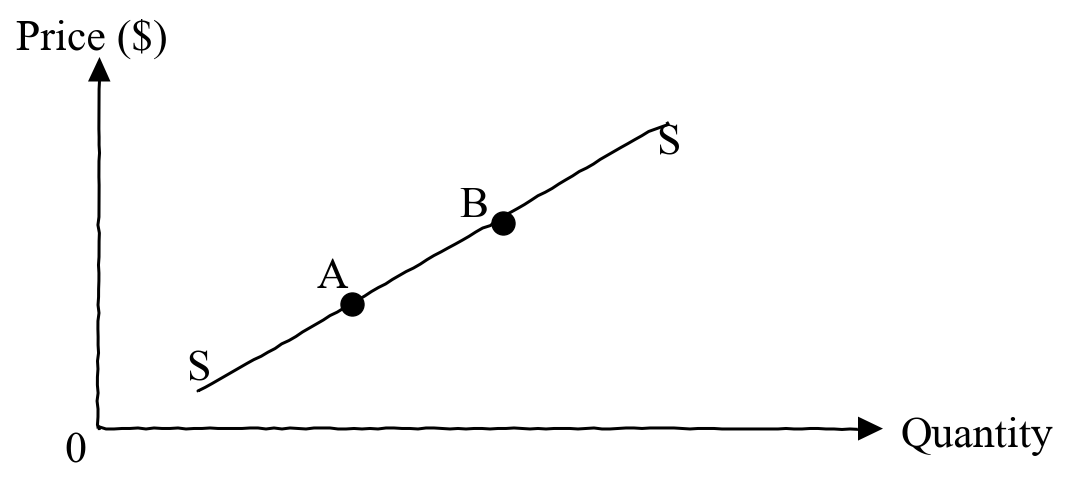
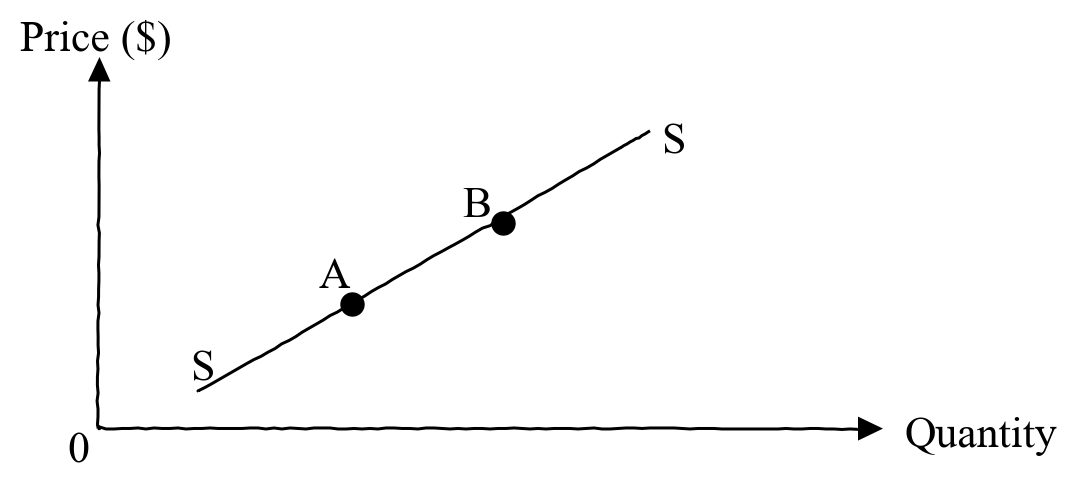
Restore 2015 Econ Q15 figure after §9.4 pass; auto-publish SOP in OCR_WORKFLOW.
Tip ink-snap fixed AA; embed 5/6; delivery edits now auto build_index+push.

diff --git a/docs/data.js b/docs/data.js
@@ -1,5 +1,5 @@
 window.QB = {
- "generated": "2026-11-05 14:47",
+ "generated": "2026-11-05 14:57",
  "count": 327,
  "questions": [
   {
@@ -3312,8 +3312,8 @@ window.QB = {
     "供求均衡",
     "沿曲線移動"
    ],
-   "text": "SS is the supply curve for smartphones. Which of the following reasons can best explain the change of the equilibrium position in the smartphone market from A to B?\n\n\n- A. The retailers offer more free gifts for buying smartphones.\n- B. The size of a tablet computer with a phone function is reduced.\n- C. There are more smartphone producers in the market.\n- D. The major network service providers increase the service charge at the same time.",
-   "html": "<p>SS is the supply curve for smartphones. Which of the following reasons can best explain the change of the equilibrium position in the smartphone market from A to B?</p>\n<ul>\n<li>A. The retailers offer more free gifts for buying smartphones.</li>\n<li>B. The size of a tablet computer with a phone function is reduced.</li>\n<li>C. There are more smartphone producers in the market.</li>\n<li>D. The major network service providers increase the service charge at the same time.</li>\n</ul>",
+   "text": "SS is the supply curve for smartphones. Which of the following reasons can best explain the change of the equilibrium position in the smartphone market from A to B?\n\n![fig_2015P1_q15](2015_P1_images/fig_2015P1_q15.png)\n\n- A. The retailers offer more free gifts for buying smartphones.\n- B. The size of a tablet computer with a phone function is reduced.\n- C. There are more smartphone producers in the market.\n- D. The major network service providers increase the service charge at the same time.",
+   "html": "<p>SS is the supply curve for smartphones. Which of the following reasons can best explain the change of the equilibrium position in the smartphone market from A to B?</p>\n<p><img alt=\"fig_2015P1_q15\" src=\"2015_P1_images/fig_2015P1_q15.png\" /></p>\n<ul>\n<li>A. The retailers offer more free gifts for buying smartphones.</li>\n<li>B. The size of a tablet computer with a phone function is reduced.</li>\n<li>C. There are more smartphone producers in the market.</li>\n<li>D. The major network service providers increase the service charge at the same time.</li>\n</ul>",
    "file": "2015_P1_QU(ENG).md"
   },
   {

diff --git a/OCR_WORKFLOW.md b/OCR_WORKFLOW.md
@@ -132,13 +132,14 @@
 | 圖 | 必須 100% 重繪（2026-11-04 用戶拍板，取代舊「crop 可用」做法）；原卷裁圖只作過程對照 | §4、用戶指示 |
 | 版權 | 只 commit 清洗後 MD（＋SVG）；原卷／掃描頁／裁圖 `.gitignore` | README、git |
 | 上線 | `build_index.py` → `docs/data.js` → commit → push → GitHub Pages | README、git |
+| **自動上線（2026-11-05）** | 凡改動會影響公開題庫嘅交貨（QU MD、嵌圖、`docs/`、`OCR_WORKFLOW.md`、科目 README／audit）→ **同一輪做完就 `build_index.py`＋commit＋push**，唔使等人再講「push」。原卷／`_work_*`／OCR scratch 仍然唔准上 git。 | 用戶指示 |
 | QA | 清走檔尾「制作說明／全卷完」等雜訊；2012–2014 全卷 QA 全綠後固化入 `build_index.py` | commit 2cc2946 |
 
 注意：
 
 - 舊標準**冇**獨立 `SOP.md`；呢份 `OCR_WORKFLOW.md` 係 2026-11-04 整理版，用嚟補 OCR 同多科細節。
 - 兩者衝突（例如圖用 crop 定重繪）時：**已由用戶 2026-11-04 拍板——一律 100% 重繪**，見檔頭「★ 鐵律」。其他未拍板嘅衝突先問用戶。
-- 數學科題庫仍然係「做完自動 `build_index.py`、commit、push」；其他科只做本地交付，唔好推上數學 repo。
+- **自動上線（2026-11-05 用戶拍板）**：數學同已入公開 bank 嘅其他科（而家包括經濟）——交貨改動做完就自動 `build_index.py` → commit → push；唔使再等「push」指令。只 commit 清洗後 MD／重繪圖／`docs/`／SOP；原卷同 `_work_*` 永遠唔上。
 
 ## §9 重繪操作定義（2026-11-04 補，落實鐵律 2）
 
@@ -171,6 +172,7 @@
 | 2026-11-04 21:5x | §9.3 加禁「逐像素 RLE 矩形／自動描邊」冒充重繪；OCR 標籤錯字、漏字、改標點即不合格，禁用 `fix_label()` 擅自改字 |
 | 2026-11-05 | §9.4 加「抗鋸齒容差」：maxdev≤2.9、p99.9≤2.5 且超標為 ≤8px 孤立斑點可記入 audit 後過關；禁用嚟遮漏畫／移位 |
 | 2026-11-05 14:3x | 用戶拍板：所有 OCR 掃描操作一律跟 `2014_P1_QU(CHI).md`（清洗 MD＋1:1 向量重繪）；檔頭寫明操作標準；SOUL 廢除 crop 交貨 |
+| 2026-11-05 14:5x | 交貨改動自動 `build_index`＋commit＋push 寫入 §8；經濟 2015 Q15 修頂端後 §9.4 過關並重嵌 |
 
 ---
 

diff --git a/題庫/經濟/2015_P1_fig_audit.md b/題庫/經濟/2015_P1_fig_audit.md
@@ -1,18 +1,16 @@
 # 2015 經濟 P1 ENG — 圖核對表
 
-**2026-11-05 重洗**：來源改對英文 `Paper 1.pdf`；頁影像 `_work_econ_ocr\2015_P1_ENG_pages_300\`；OCR `2015_P1_ENG_ocr_v2`（easyocr en）。舊 `2015_pages_300`／壞 OCR 係中文卷一，已棄用。
-
-§9.4 含抗鋸齒容差（maxdev≤2.9、p99.9≤2.5；超標只限 ≤8px 孤立斑點）。`check.json` 的 `pass`＝`pass_dir1`∧`pass_dir2`∧`pass_aa`。
+**2026-11-05 重洗／補圖**：來源英文 `Paper 1.pdf`；頁影像 `_work_econ_ocr\2015_P1_ENG_pages_300\`（舊 `2015_pages_300` 係中文卷一，勿用）。§9.4 含抗鋸齒容差（maxdev≤2.9、p99.9≤2.5）。`pass`＝`pass_dir1`∧`pass_dir2`∧`pass_aa`。
 
 | 題號 | 頁 | dir1% | dir2% | maxdev | p99.9 | pass_aa | 狀態 |
 |---|---|---:|---:|---:|---:|---|---|
-| Q15 | p05 | 99.599 | 99.748 | **5.83** | **4.48** | false | **待重繪**（dir1 unmatched area=24 @ 9×5 塊，非孤立 AA）；已撤 embed |
-| Q19 | p07 | 99.746 | 100.000 | **4.12** | **2.86** | false | **待重繪**（p99.9>2.5；標籤／線偏）；已撤 embed |
+| Q15 | p05 | 99.957 | 99.748 | 2.24 | 2.00 | true | **過關**（2026-11-05 修供應線頂端 ink-snap）；MD 有 embed |
+| Q19 | p07 | 99.746 | 100.000 | **4.12** | **2.86** | false | **待重繪**；已撤 embed |
 | Q22 | p08 | 99.872 | 100.000 | 2.24 | 2.24 | true | **過關**；MD 有 embed |
 | Q27 | p10 | 99.888 | 100.000 | 2.83 | 2.24 | true | **過關**；MD 有 embed（A–D 圖選項） |
 | Q28 | p10 | 99.967 | 100.000 | 2.24 | 2.00 | true | **過關**；MD 有 embed |
 | Q37 | p13 | 99.912 | 100.000 | 2.24 | 2.00 | true | **過關**；MD 有 embed |
 
-- MD 檔頭：**4/6**（唔寫「6 張已 100%」）。
+- MD 檔頭：**5/6**。
 - check：`_work_econ_ocr\2015_fig_diff\fig_2015P1_q{N}_check.json`。
 - **Q45（p15）無圖**：原卷純文字 MC。

diff --git a/題庫/經濟/2015_P1_QU(ENG).md b/題庫/經濟/2015_P1_QU(ENG).md
@@ -3,7 +3,7 @@
 > 來源：2015-DSE-ECON PAPER 1（dsepaper_hk\經濟\2015\…Past Paper Paper 1.pdf；英文卷，唔用卷一.pdf）　｜　多項選擇題 45 題，每題等分　｜　一小時完卷（8:30 am – 9:30 am）
 > 說明：已移除頁碼、試卷標頭、網站水印等雜訊；公式重排為 LaTeX。**本檔為題目庫（零答案）**，只含題目清洗 + 建議標籤。
 > 含圖題目已嵌入**電子重繪向量圖**（存於 `2015_P1_images/`，由重繪腳本生成，可改參數重出）。原卷頁面影像在 `_work_econ_ocr\2015_P1_ENG_pages_300\`（對照用，不上網）。
-> **圖進度（誠實）**：6 張之中 **4/6 已過 §9.4＋抗鋸齒容差並嵌圖**（Q22／Q27／Q28／Q37）。**Q15／Q19 待重繪**（maxdev／p99.9 超 AA：Q15 5.83／4.48，Q19 4.12／2.86；已撤 embed）。Q45 原卷無圖。明細見 `2015_P1_fig_audit.md`。
+> **圖進度（誠實）**：6 張之中 **5/6 已過 §9.4＋抗鋸齒容差並嵌圖**（Q15／Q22／Q27／Q28／Q37）。**Q19 待重繪**（maxdev／p99.9 超 AA：4.12／2.86；已撤 embed）。Q45 原卷無圖。明細見 `2015_P1_fig_audit.md`。
 
 ---
 
@@ -323,6 +323,7 @@ Holding other factors constant, a rise in the price of Good X will lead to a fal
 
 SS is the supply curve for smartphones. Which of the following reasons can best explain the change of the equilibrium position in the smartphone market from A to B?
 
+![fig_2015P1_q15](2015_P1_images/fig_2015P1_q15.png)
 
 - A. The retailers offer more free gifts for buying smartphones.
 - B. The size of a tablet computer with a phone function is reduced.

diff --git a/題庫/經濟/README.md b/題庫/經濟/README.md
@@ -5,7 +5,7 @@
 | 檔案 | 頁 | 題 | 文字層／OCR | 圖（已嵌／應有） | 狀態 |
 |---|---|---|---|---|---|
 | `2020_P1_QU(ENG).md` | 17 | 45 | 文字層＋對頁覆核（2026-11-05 重洗） | **12／12** 在庫（7 張有 §9.4 數字＋5 張樣板／語義核） | 公開（honest header） |
-| `2015_P1_QU(ENG).md` | 15 | 45 | 壞文字層→easyocr en＋英文頁覆核（2026-11-05 重洗；唔用卷一頁） | **4／6** 已嵌（Q22／27／28／37）；Q15／Q19 待重繪 | 公開；圖未完成 |
+| `2015_P1_QU(ENG).md` | 15 | 45 | 壞文字層→easyocr en＋英文頁覆核（2026-11-05 重洗；唔用卷一頁） | **5／6** 已嵌（Q15／22／27／28／37）；Q19 待重繪 | 公開；圖未完成 |
 | `2017_P1_QU(ENG).md` | 15 | 45 | 文字層＋英文頁覆核（2026-11-05 重洗；唔用卷一頁） | **2／10** 已嵌（Q21／Q29）；其餘待重繪／Q30 商標 | 公開；圖未完成 |
 
 核對表：`*_P1_fig_audit.md`、`*_P1_page_map.md`。撤銷示意／估數圖：`_rejected_unmeasured_figs_2020/`（唔作交付）。

diff --git a/題庫/經濟/2015_P1_page_map.md b/題庫/經濟/2015_P1_page_map.md
@@ -7,7 +7,7 @@
 
 | 題號 | PDF 頁（1-based） | 頁影像 | 備註 |
 |---|---|---|---|
-| Q15 | 5 | `p05.png` | 待重繪（§9.4 AA 未過；MD 無 embed） |
+| Q15 | 5 | `p05.png` | 已嵌；過 §9.4（2026-11-05 修頂端） |
 | Q19 | 7 | `p07.png` | 待重繪（§9.4 AA 未過；MD 無 embed） |
 | Q22 | 8 | `p08.png` | 已嵌；過 §9.4 |
 | Q27 | 10 | `p10.png` | 已嵌；四格選項圖 A–D |
